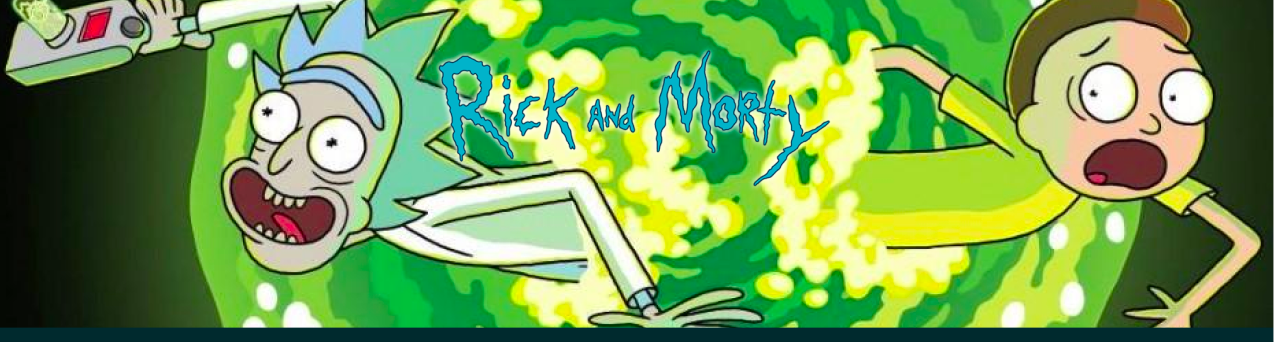
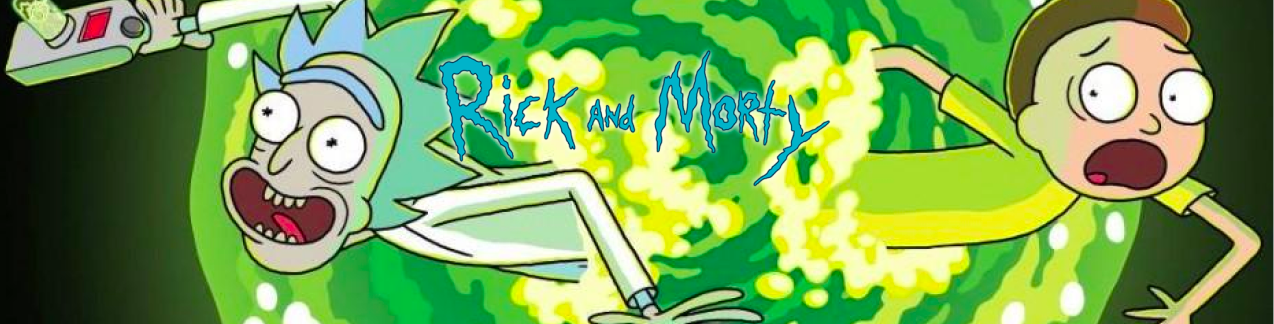
background

diff --git a/src/App.css b/src/App.css
@@ -72,7 +72,7 @@ button{
 .img{
   width: 100%;
   position: relative;
-  top: -2.5rem;
+  top: -1rem;
 }
 .error{
   color: white;
